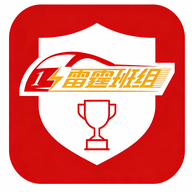
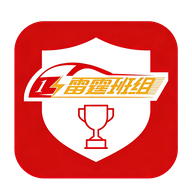
PWA全平台适配：新图标+iOS支持+ServiceWorker更新
- 替换图标为"雷霆班组"图标（192x192, 512x512, apple-touch-icon 180x180）
- 添加 apple-touch-icon meta 标签支持 iOS 主屏幕安装
- 更新 sw.js 缓存版本至 v1.5.0，新增 apple-touch-icon 缓存
- 更新 STANDARDS 作业标准数组（56项6模块）
- initCloud 添加5秒超时保护

diff --git a/sw.js b/sw.js
@@ -1,9 +1,10 @@
-const CACHE_NAME = 'score-app-v1.4.1';
+const CACHE_NAME = 'score-app-v1.5.0';
 const ASSETS = [
   './preview.html',
   './manifest.json',
   './icon-192x192.png',
-  './icon-512x512.png'
+  './icon-512x512.png',
+  './apple-touch-icon.png'
 ];
 
 // 安装：缓存核心文件

diff --git a/preview.html b/preview.html
@@ -9,6 +9,7 @@
 <meta name="theme-color" content="#1A73E8">
 <meta name="mobile-web-app-capable" content="yes">
 <link rel="manifest" href="manifest.json">
+<link rel="apple-touch-icon" href="apple-touch-icon.png">
 <title>计件积分管理 APP 预览</title>
 <style>
   :root {